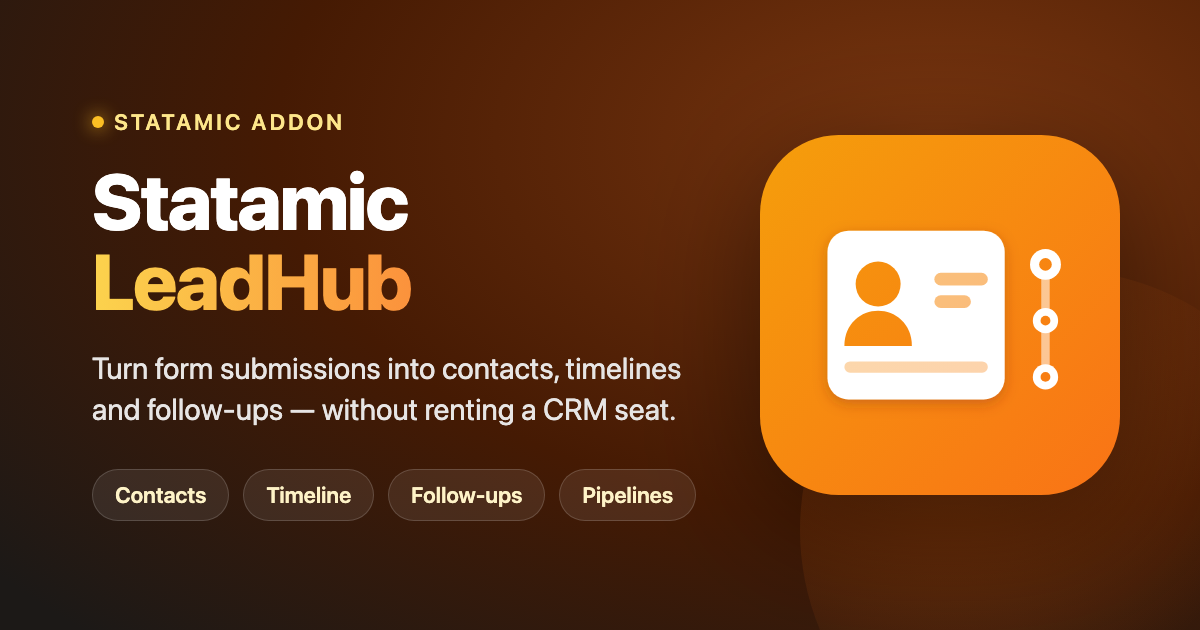
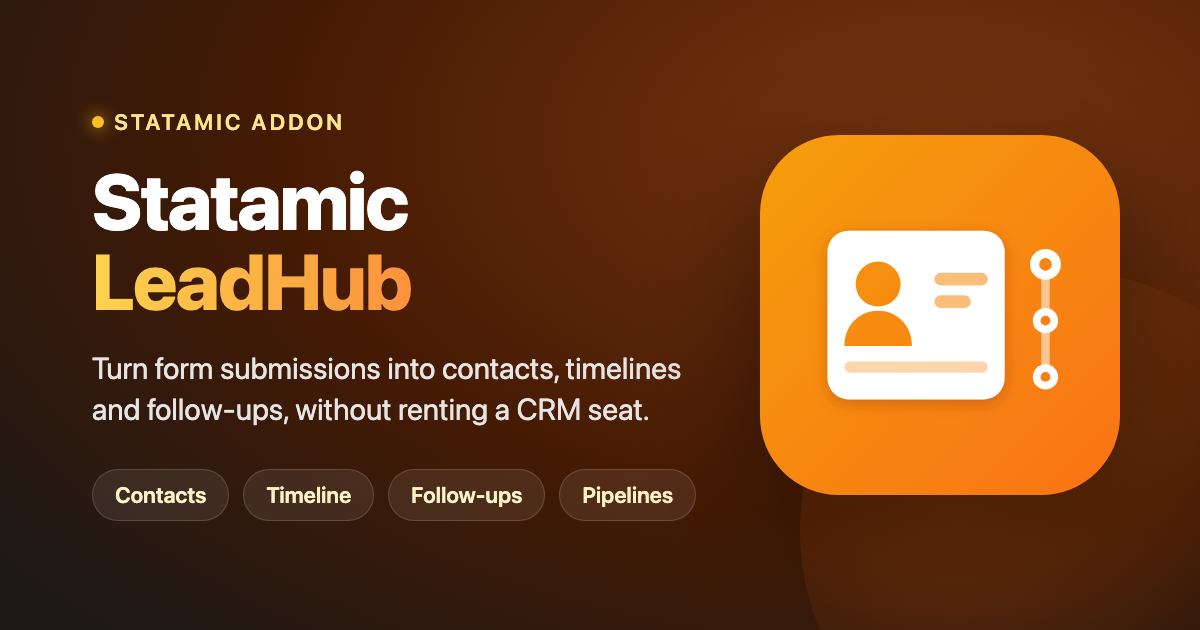
chore(art): Gedankenstrich aus Cover-Untertitel entfernen
Adrians Copy-Regel erlaubt in Marketingtexten keine Gedankenstriche.
Der Halbgeviertstrich im Untertitel ist durch ein Komma aufgeloest,
nicht durch einen Bindestrich ersetzt.

Cover-PNG aus cover.html neu gerendert, Masse unveraendert bei 1200x630.

Changed region(s): [[0.2467, 0.6333, 0.555, 0.6937]]

diff --git a/art/cover.html b/art/cover.html
@@ -35,7 +35,7 @@
     <div class="copy">
       <span class="eyebrow"><span class="dot"></span>Statamic Addon</span>
       <h1>Statamic<br><span class="accent">LeadHub</span></h1>
-      <p class="sub">Turn form submissions into contacts, timelines and follow-ups &mdash; without renting a CRM seat.</p>
+      <p class="sub">Turn form submissions into contacts, timelines and follow-ups, without renting a CRM seat.</p>
       <div class="badges">
         <span class="badge">Contacts</span>
         <span class="badge">Timeline</span>
